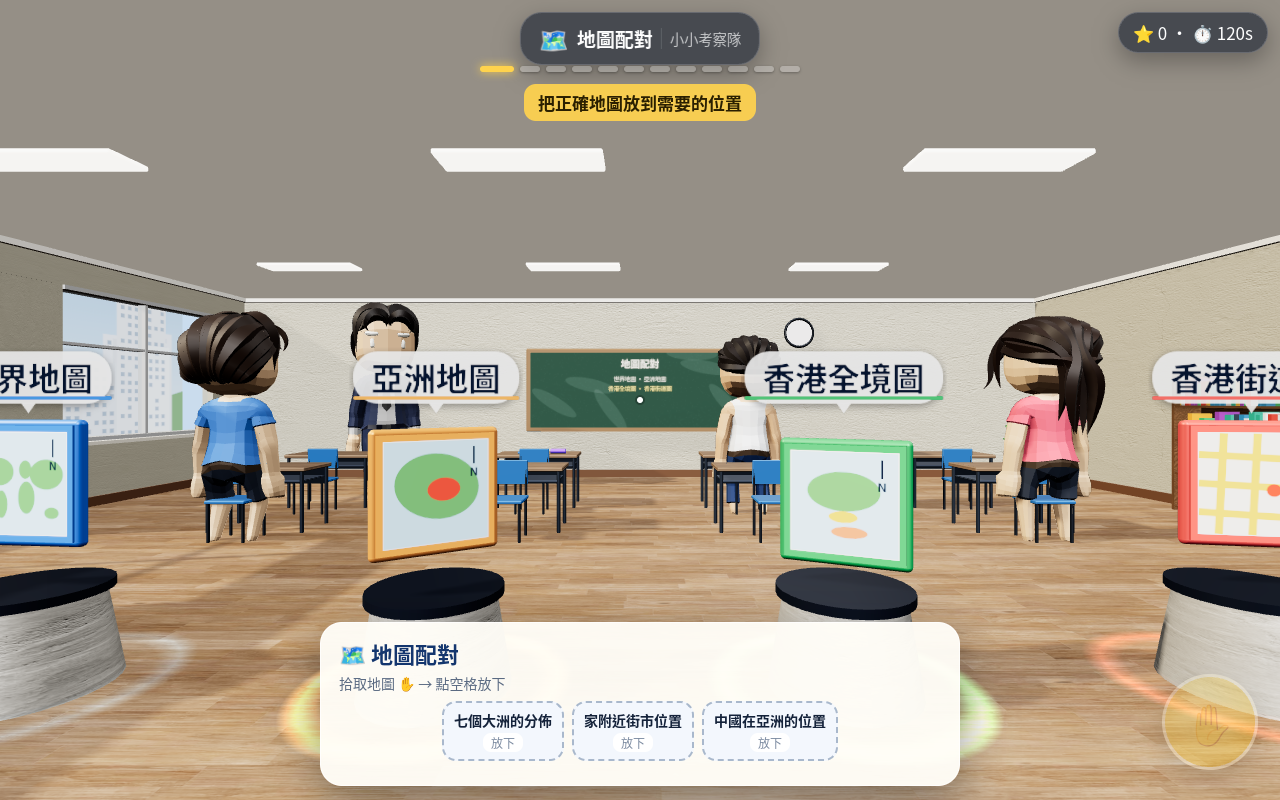
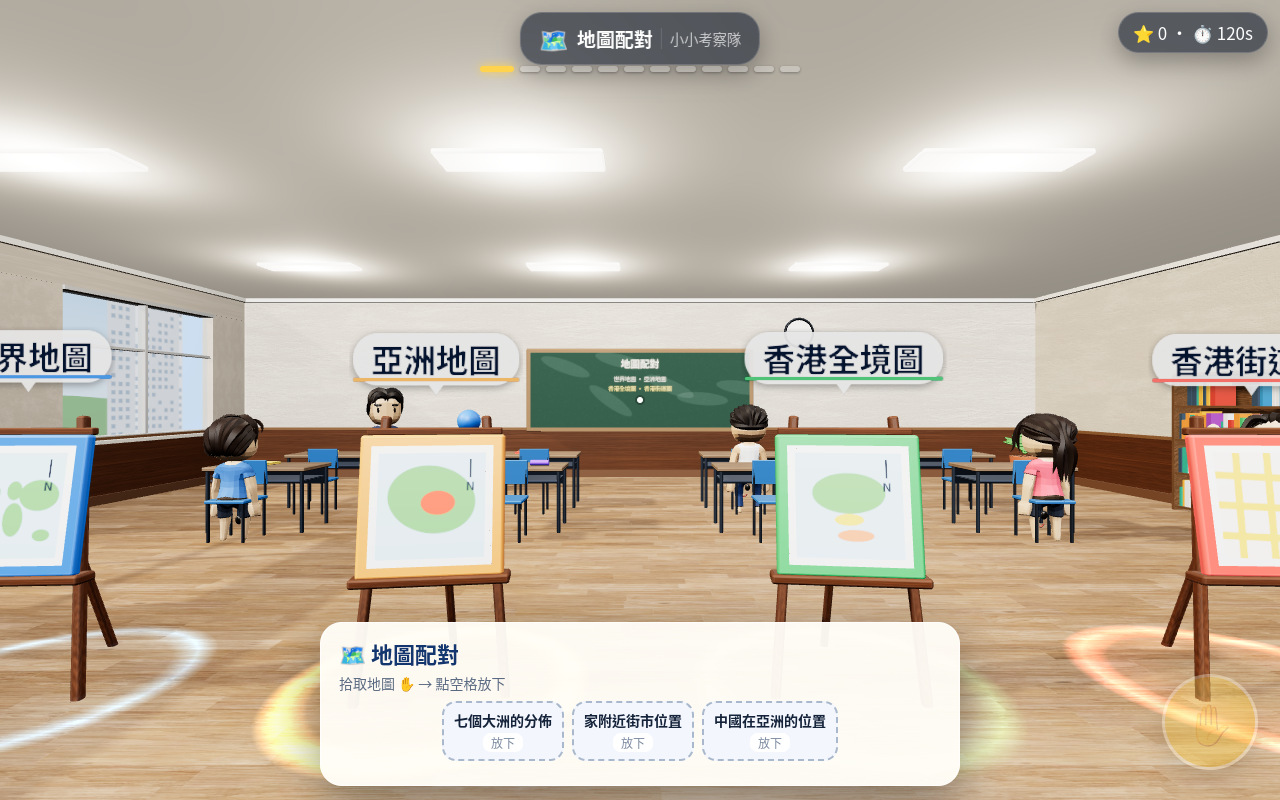
v2b: real Quaternius faces/scale, furnished classroom, dense instanced foliage, easel props, stronger lighting

diff --git a/js/art.js b/js/art.js
@@ -71,7 +71,7 @@ export function setupLights(sunLight, hemiLight) {
 }
 const roomEnv = () => (setupLights._room ||= pm.fromScene(new RoomEnvironment(), 0.04).texture);
 
-export function outdoor({ elev = 35, azim = 140, turb = 2.5, rayleigh = 1.2, fog = 0xb9d4ea, near = 40, far = 160, sunI = 2.6, hemiI = 0.55, sunC = 0xfff1dc, expo = 0.62, mie = 0.003 } = {}) {
+export function outdoor({ elev = 35, azim = 140, turb = 2.5, rayleigh = 1.2, fog = 0xb9d4ea, near = 40, far = 160, sunI = 3.1, hemiI = 0.38, sunC = 0xfff1dc, expo = 0.62, mie = 0.003 } = {}) {
   const u = sky.material.uniforms;
   u.turbidity.value = turb; u.rayleigh.value = rayleigh; u.mieCoefficient.value = mie; u.mieDirectionalG.value = 0.85;
   const phi = THREE.MathUtils.degToRad(90 - elev), th = THREE.MathUtils.degToRad(azim);
@@ -80,7 +80,7 @@ export function outdoor({ elev = 35, azim = 140, turb = 2.5, rayleigh = 1.2, fog
   S.add(sky);
   const es = new THREE.Scene(); const sk2 = sky.clone(); es.add(sk2);
   envRT?.dispose(); envRT = pm.fromScene(es, 0, 0.1, 5000);
-  S.environment = envRT.texture; S.environmentIntensity = 0.7;
+  S.environment = envRT.texture; S.environmentIntensity = 0.55;
   S.background = null;
   S.fog = new THREE.Fog(fog, near, far);
   sun.position.copy(v).multiplyScalar(40); sun.userData.off = sun.position.clone();
@@ -136,27 +136,28 @@ export function glowRing(r = 0.6, color = 0x6fd3ff) {
 }
 // face drawer: (g,w,h) draws illustration; or emoji
 export function token({ x, z, icon = '❓', name, color = '#2f80ed', face, y = 0 }) {
-  const g = new THREE.Group(); g.position.set(x, y, z);
-  // pedestal
-  const ped = new THREE.Mesh(new THREE.CylinderGeometry(0.32, 0.4, 0.5, 28), pbr('concrete034', 0.5, { color: 0xe8e4dc }));
-  ped.position.y = 0.25; g.add(ped);
-  const cap = new THREE.Mesh(new THREE.CylinderGeometry(0.36, 0.36, 0.05, 28), std(0x2a3448, 0.35, 0.7)); cap.position.y = 0.52; g.add(cap);
-  const ring = glowRing(0.75, new THREE.Color(color)); g.add(ring);
+  const g = new THREE.Group(); g.position.set(x, y, z); g.rotation.y = (Math.random() - 0.5) * 0.3;
+  const wood = pbr('wood049', 0.4, { color: 0xc08a5a });
+  // easel: two front legs + back leg + tray
+  for (const sx of [-0.32, 0.32]) { const l = mesh(rbox(0.05, 1.5, 0.05, 0.015), wood, sx, 0.72, 0.06, g); l.rotation.x = -0.12; l.rotation.z = sx > 0 ? 0.08 : -0.08; }
+  const bl = mesh(rbox(0.045, 1.45, 0.045, 0.015), wood, 0, 0.66, -0.3, g); bl.rotation.x = 0.36;
+  mesh(rbox(0.8, 0.05, 0.12, 0.015), wood, 0, 0.62, 0.12, g);
+  mesh(rbox(0.7, 0.04, 0.04, 0.01), wood, 0, 1.38, 0.0, g);
+  const ring = glowRing(0.85, new THREE.Color(color)); g.add(ring);
   const ft = canvasTex(256, 256, (c, w, h) => {
-    const gr = c.createLinearGradient(0, 0, 0, h); gr.addColorStop(0, '#ffffff'); gr.addColorStop(1, '#e8eef8');
+    const gr = c.createLinearGradient(0, 0, 0, h); gr.addColorStop(0, '#ffffff'); gr.addColorStop(1, '#eef2f8');
     c.fillStyle = gr; c.fillRect(0, 0, w, h);
-    c.strokeStyle = color; c.lineWidth = 14; c.strokeRect(7, 7, w - 14, h - 14);
     if (face) face(c, w, h); else { c.font = `150px ${FONT}`; c.textAlign = 'center'; c.textBaseline = 'middle'; c.fillText(icon, w / 2, h / 2 + 10); }
   });
-  const faceMat = new THREE.MeshStandardMaterial({ map: ft, roughness: 0.35, emissive: 0xffffff, emissiveMap: ft, emissiveIntensity: 0.25 });
-  const edge = std(new THREE.Color(color), 0.3, 0.2);
-  const tile = new THREE.Mesh(new THREE.BoxGeometry(0.62, 0.62, 0.08), [edge, edge, edge, edge, faceMat, faceMat]);
-  const bez = new THREE.Mesh(rbox(0.68, 0.68, 0.06, 0.03), edge); tile.add(bez);
-  tile.position.y = 1.05; g.add(tile);
-  const lb = label(name, { accent: color, scale: 0.8 }); lb.position.y = 1.45; g.add(lb);
-  sh(g); ring.castShadow = false; lb.castShadow = false;
+  const faceMat = new THREE.MeshStandardMaterial({ map: ft, roughness: 0.55, emissive: 0xffffff, emissiveMap: ft, emissiveIntensity: 0.12 });
+  const frameM = std(new THREE.Color(color), 0.4, 0.1);
+  const card = new THREE.Group(); card.position.set(0, 1.0, 0.1); card.rotation.x = -0.14; g.add(card);
+  mesh(rbox(0.74, 0.74, 0.05, 0.02), frameM, 0, 0, -0.01, card);
+  const p = new THREE.Mesh(new THREE.PlaneGeometry(0.62, 0.62), faceMat); p.position.z = 0.017; card.add(p);
+  const lb = label(name, { accent: color, scale: 0.8 }); lb.position.y = 1.55; g.add(lb);
+  sh(g); ring.castShadow = false; lb.castShadow = false; p.castShadow = false;
   const ph = Math.random() * 6;
-  anim.push((dt, t) => { tile.position.y = 1.05 + Math.sin(t * 2 + ph) * 0.06; tile.rotation.y = Math.sin(t * 0.9 + ph) * 0.6; ring.material.opacity = 0.6 + Math.sin(t * 3 + ph) * 0.3; });
+  anim.push((dt, t) => { ring.material.opacity = 0.5 + Math.sin(t * 3 + ph) * 0.3; lb.position.y = 1.55 + Math.sin(t * 2 + ph) * 0.03; });
   return g;
 }
 // drop pad: glowing circle with sign
@@ -177,7 +178,7 @@ export function ground(name, size, rep, y = 0, o = {}) {
   const m = new THREE.Mesh(new THREE.PlaneGeometry(size, size), pbr(name, rep, o));
   m.rotation.x = -Math.PI / 2; m.position.y = y; m.receiveShadow = true; root.add(m); return m;
 }
-export function room({ skip = '', w = 16, d = 16, h = 3.6, floor = 'woodfloor051', floorRep = 5, wall = 'paintedplaster017', wallColor = 0xf3ead8, windows = 'left', outside = 'city', ceiling = true }) {
+export function room({ wainscot = false, skip = '', w = 16, d = 16, h = 3.6, floor = 'woodfloor051', floorRep = 5, wall = 'paintedplaster017', wallColor = 0xf3ead8, windows = 'left', outside = 'city', ceiling = true }) {
   const f = new THREE.Mesh(new THREE.PlaneGeometry(w, d), pbr(floor, floorRep)); f.rotation.x = -Math.PI / 2; f.receiveShadow = true; root.add(f);
   const wm = pbr(wall, 2, { color: wallColor });
   const skirt = std(0x6b4a33, 0.5);
@@ -220,7 +221,8 @@ export function room({ skip = '', w = 16, d = 16, h = 3.6, floor = 'woodfloor051
       const bd = new THREE.Mesh(new THREE.PlaneGeometry(W.len * 1.6, h * 2.4), new THREE.MeshBasicMaterial({ map: outsideTex, fog: false, toneMapped: true }));
       bd.position.set(0, h * 0.75, -4.5); g.add(bd);
     }
-    // skirting + cornice
+    // skirting + cornice + wainscot
+    if (wainscot) { mesh(new THREE.BoxGeometry(W.len, 0.95, 0.03), pbr('wood049', 2, { color: 0xb88a5e }), 0, 0.475, 0.0, g); mesh(new THREE.BoxGeometry(W.len, 0.05, 0.06), std(0x7a5636, 0.5), 0, 0.97, 0.02, g); }
     mesh(new THREE.BoxGeometry(W.len, 0.14, 0.04), skirt, 0, 0.07, 0.02, g);
     mesh(new THREE.BoxGeometry(W.len, 0.08, 0.08), std(0xfaf7f0, 0.5), 0, h - 0.04, 0.02, g);
   }
@@ -347,20 +349,50 @@ export function plant(x, z, s = 1, parent) {
   }
   return g;
 }
+const leafTex = () => (leafTex._t ||= (() => { const t = canvasTex(256, 256, (g, w, h) => {
+  g.clearRect(0, 0, w, h);
+  for (let i = 0; i < 26; i++) {
+    const x = 30 + Math.random() * 196, y = 30 + Math.random() * 196, a = Math.random() * 6.28, L = 26 + Math.random() * 20;
+    const l = 55 + Math.random() * 30;
+    g.fillStyle = `hsl(0,0%,${l}%)`; g.save(); g.translate(x, y); g.rotate(a);
+    g.beginPath(); g.moveTo(0, 0); g.quadraticCurveTo(L * 0.5, -L * 0.35, L, 0); g.quadraticCurveTo(L * 0.5, L * 0.35, 0, 0); g.fill();
+    g.strokeStyle = 'rgba(0,0,0,.25)'; g.lineWidth = 1.5; g.beginPath(); g.moveTo(0, 0); g.lineTo(L, 0); g.stroke(); g.restore();
+  }
+}); t.colorSpace = THREE.SRGBColorSpace; return t; })());
 export function tree(x, z, s = 1, { leaf = 0x4f8f3f, trunk = 0x6b4a33, bare = false, snow = false } = {}) {
   const g = new THREE.Group(); g.position.set(x, 0, z); g.scale.setScalar(s); g.rotation.y = Math.random() * 6; root.add(g);
   const tm = pbr('wood049', 0.3, { color: trunk });
-  mesh(new THREE.CylinderGeometry(0.1, 0.17, 1.8, 10), tm, 0, 0.9, 0, g);
-  for (let i = 0; i < 3; i++) { const b = mesh(new THREE.CylinderGeometry(0.03, 0.06, 0.9, 6), tm, 0, 1.5 + i * 0.2, 0, g); b.rotation.set(0.7, i * 2.1, 0); b.position.x = Math.cos(i * 2.1) * 0.2; b.position.z = -Math.sin(i * 2.1) * 0.2; }
+  const trunkGeo = new THREE.CylinderGeometry(0.09, 0.18, 2.0, 10, 4); const tp = trunkGeo.attributes.position;
+  for (let i = 0; i < tp.count; i++) { const yy = tp.getY(i); tp.setX(i, tp.getX(i) + Math.sin(yy * 2) * 0.04); }
+  trunkGeo.computeVertexNormals(); mesh(trunkGeo, tm, 0, 1.0, 0, g);
+  const tips = [];
+  for (let i = 0; i < 5; i++) {
+    const a = i * 1.3 + Math.random() * 0.5, len = 0.9 + Math.random() * 0.5, y0 = 1.4 + i * 0.18;
+    const b = mesh(new THREE.CylinderGeometry(0.025, 0.06, len, 6), tm, 0, 0, 0, g);
+    const dir = new THREE.Vector3(Math.cos(a), 1.1, Math.sin(a)).normalize();
+    b.quaternion.setFromUnitVectors(new THREE.Vector3(0, 1, 0), dir);
+    b.position.set(dir.x * len / 2, y0 + dir.y * len / 2, dir.z * len / 2);
+    tips.push(new THREE.Vector3(dir.x * len, y0 + dir.y * len, dir.z * len));
+  }
   if (!bare) {
-    const lm = std(leaf, 0.75, 0, { flatShading: false });
-    for (let i = 0; i < 9; i++) {
-      const r = 0.45 + Math.random() * 0.35; const geo = new THREE.IcosahedronGeometry(r, 2);
-      const p = geo.attributes.position; for (let k = 0; k < p.count; k++) { const f = 1 + (Math.random() - 0.5) * 0.18; p.setXYZ(k, p.getX(k) * f, p.getY(k) * f, p.getZ(k) * f); } geo.computeVertexNormals();
-      const c = new THREE.Color(leaf).offsetHSL((Math.random() - 0.5) * 0.04, 0, (Math.random() - 0.5) * 0.12);
-      mesh(geo, std(c, 0.8), (Math.random() - 0.5) * 1.1, 2.1 + Math.random() * 0.8, (Math.random() - 0.5) * 1.1, g);
+    const N = Math.round(480 * Q.density);
+    const lm = new THREE.MeshStandardMaterial({ color: leaf, map: leafTex(), alphaTest: 0.5, side: THREE.DoubleSide, roughness: 0.8 });
+    const im = new THREE.InstancedMesh(new THREE.PlaneGeometry(0.6, 0.6), lm, N);
+    const d = new THREE.Object3D(), col = new THREE.Color();
+    for (let i = 0; i < N; i++) {
+      const c = i < N * 0.35 ? new THREE.Vector3(0, 2.6, 0) : tips[i % tips.length];
+      const v = new THREE.Vector3().randomDirection().multiplyScalar(Math.cbrt(Math.random()) * (i < N * 0.35 ? 1.05 : 0.7));
+      v.y *= 0.75;
+      d.position.copy(c).add(v);
+      d.lookAt(d.position.clone().add(v)); d.rotateZ(Math.random() * 6.28);
+      d.scale.setScalar(0.7 + Math.random() * 0.6); d.updateMatrix(); im.setMatrixAt(i, d.matrix);
+      const shade = 0.65 + 0.35 * Math.min(1, (d.position.y - 1.6) / 1.8) + (Math.random() - 0.5) * 0.15;
+      im.setColorAt(i, col.setRGB(shade, shade, shade));
     }
-    if (snow) for (let i = 0; i < 4; i++) mesh(new THREE.SphereGeometry(0.4, 12, 8), std(0xffffff, 0.9), (Math.random() - 0.5) * 0.8, 2.9 + Math.random() * 0.3, (Math.random() - 0.5) * 0.8, g).scale.y = 0.35;
+    im.castShadow = true; im.receiveShadow = true;
+    im.customDepthMaterial = new THREE.MeshDepthMaterial({ depthPacking: THREE.RGBADepthPacking, map: leafTex(), alphaTest: 0.5 });
+    g.add(im);
+    if (snow) for (let i = 0; i < 4; i++) mesh(new THREE.SphereGeometry(0.4, 12, 8), std(0xffffff, 0.9), (Math.random() - 0.5) * 0.8, 3.0 + Math.random() * 0.3, (Math.random() - 0.5) * 0.8, g).scale.y = 0.35;
   }
   colliders.push({ x, z, r: 0.35 * s });
   return g;

diff --git a/js/game.js b/js/game.js
@@ -80,20 +80,50 @@ function loadModels() {
         if (!o.isMesh) return;
         o.castShadow = true; o.receiveShadow = true;
         const ms = Array.isArray(o.material) ? o.material : [o.material];
-        ms.forEach((m) => { if (!m) return; m.envMapIntensity = 0.8; if (pal && pal[m.name] !== undefined) { m.color.set(pal[m.name]); m.roughness = m.name === 'Hair' ? 0.55 : 0.75; } });
+        ms.forEach((m) => { if (!m) return; m.envMapIntensity = 0.8; if (m.name === 'Face') { m.color.set(0x1b1410); m.roughness = 0.25; }
+        if (pal && pal[m.name] !== undefined) { m.color.set(pal[m.name]); m.roughness = m.name === 'Hair' ? 0.55 : 0.75; } });
       });
+      if (PALETTE[k]) addEyes(g.scene);
+      if (PALETTE[k] || ['boy','girl','elder','worker','teacher','girl2','boy2'].includes(k)) { const bb = new THREE.Box3().setFromObject(g.scene); g.unit = 1.72 / (bb.max.y - bb.min.y); console.info('model h', k, (bb.max.y - bb.min.y).toFixed(2)); }
       MODELS[k] = g;
     } catch (e) { console.warn('model', k, e); }
   })));
 }
 const mixers = [];
+function addEyes(scene) {
+  scene.updateMatrixWorld(true);
+  let brow = null, head = null;
+  scene.traverse((o) => { if (o.isMesh && o.material?.name === 'Face') brow = o; if (o.isBone && /head/i.test(o.name) && !head) head = o; });
+  if (!brow || !head) return;
+  const bb = new THREE.Box3(); const v = new THREE.Vector3();
+  const n = brow.geometry.attributes.position.count;
+  for (let i = 0; i < n; i++) { if (brow.isSkinnedMesh) brow.getVertexPosition(i, v); else v.fromBufferAttribute(brow.geometry.attributes.position, i); v.applyMatrix4(brow.matrixWorld); bb.expandByPoint(v); }
+  const H = new THREE.Box3().setFromObject(scene).getSize(new THREE.Vector3()).y;
+  const w = bb.max.x - bb.min.x, cx = (bb.max.x + bb.min.x) / 2;
+  const r = H * 0.024;
+  const eyeM = new THREE.MeshStandardMaterial({ color: 0x15110e, roughness: 0.15 });
+  const hiM = new THREE.MeshBasicMaterial({ color: 0xffffff });
+  const cheekM = new THREE.MeshBasicMaterial({ color: 0xff8f8f, transparent: true, opacity: 0.45, depthWrite: false });
+  const mouthM = new THREE.MeshStandardMaterial({ color: 0x8a3b30, roughness: 0.5 });
+  const add = (mesh, x, y, z) => { const p = new THREE.Vector3(x, y, z); head.worldToLocal(p); mesh.position.copy(p); head.add(mesh); };
+  const z = bb.max.z;
+  for (const s of [-1, 1]) {
+    const ex = cx + s * w * 0.24, ey = bb.min.y - r * 1.3;
+    const e = new THREE.Mesh(new THREE.SphereGeometry(r, 16, 12), eyeM); e.scale.set(0.95, 1.25, 0.55); add(e, ex, ey, z - r * 0.1);
+    const h = new THREE.Mesh(new THREE.SphereGeometry(r * 0.32, 8, 6), hiM); add(h, ex + r * 0.25, ey + r * 0.4, z + r * 0.15);
+    const c = new THREE.Mesh(new THREE.CircleGeometry(r * 0.9, 16), cheekM); add(c, cx + s * w * 0.4, ey - r * 1.8, z + r * 0.05);
+  }
+  const m = new THREE.Mesh(new THREE.TorusGeometry(r * 0.9, r * 0.22, 6, 12, Math.PI), mouthM); m.rotation.z = Math.PI; add(m, cx, bb.min.y - r * 3.6, z + r * 0.05);
+}
 function spawnPerson(kind, x, z, scale = 1, rotY = 0, clip = 'Idle') {
   const src = MODELS[kind];
   if (!src) { const g = new THREE.Group(); g.position.set(x, 0, z); return g; }
-  const root = SkeletonUtils.clone(src.scene);
-  root.position.set(x, 0, z); root.rotation.y = rotY; root.scale.setScalar(scale);
+  const inner = SkeletonUtils.clone(src.scene);
+  inner.scale.setScalar(scale * (src.unit || 1));
+  const root = new THREE.Group(); root.add(inner);
+  root.position.set(x, 0, z); root.rotation.y = rotY;
   if (src.animations?.length) {
-    const mx = new THREE.AnimationMixer(root);
+    const mx = new THREE.AnimationMixer(inner);
     const c = src.animations.find((a) => a.name === clip) || src.animations[0];
     const act = mx.clipAction(c); act.play(); act.time = Math.random() * c.duration;
     mixers.push(mx); root.userData.mixer = mx; root.userData.clips = src.animations;
@@ -386,7 +416,8 @@ function addTok(opts, data) {
 }
 function classroom({ w = 16, d = 14, title = '小小考察隊', lines = [], desks = true } = {}) {
   A.indoor({ bg: 0xcfe2f5, expo: 1.15, sunI: 2.6, sunDir: [-14, 9, 3], envI: 0.6 });
-  A.room({ w, d, h: 3.6, floor: 'woodfloor051', floorRep: 4, wall: 'paintedplaster017', wallColor: 0xf4ecdc, windows: 'left' });
+  A.room({ w, d, h: 3.6, floor: 'woodfloor051', floorRep: 4, wall: 'plaster001', wallColor: 0xf6efe2, windows: 'left', wainscot: true });
+  for (let x = -w / 2 + 3; x < w / 2 - 1; x += 4) for (let z = -d / 2 + 3; z < d / 2 - 1; z += 4) { const pl = new THREE.PointLight(0xfff1dc, 5, 7, 1.8); pl.position.set(x, 3.3, z); worldRoot.add(pl); }
   A.board(0, 1.75, -d / 2 + 0.06, 4.4, 1.5, (g, W, H) => A.chalkboard(g, W, H, title, lines));
   // teacher desk + teacher
   const td = A.desk(-3.4, -d / 2 + 1.6, 0, false); td.scale.set(1.3, 1, 1.2);
@@ -412,6 +443,16 @@ function classroom({ w = 16, d = 14, title = '小小考察隊', lines = [], desk
       if ((r + c) % 3 === 0) { const p = spawnPerson(kids[k++ % 4], x + 0.0, z + 0.62, 0.78, Math.PI, 'Idle'); worldRoot.add(p); }
     }
   }
+  // standing classmates chatting near the windows / back
+  if (desks) {
+    const a1 = spawnPerson('girl', -6.2, 1.2, 0.8, 0.9); worldRoot.add(a1); colliders.push({ x: -6.2, z: 1.2, r: 0.4 });
+    const a2 = spawnPerson('boy2', -5.3, 2.0, 0.82, -2.4); worldRoot.add(a2); colliders.push({ x: -5.3, z: 2.0, r: 0.4 });
+    const a3 = spawnPerson('girl2', 5.6, -0.2, 0.8, -1.2, 'Victory'); worldRoot.add(a3); colliders.push({ x: 5.6, z: -0.2, r: 0.4 });
+    walker('boy', [[6.5, 4.5], [6.5, -4.5]], 0.8);
+  }
+  // window-wall extras: radiator, globe on teacher desk, notice board
+  A.board(-1.2, 1.9, d / 2 - 0.08, 2.0, 1.1, (g2, W, H) => { g2.fillStyle = '#b5835a'; g2.fillRect(0, 0, W, H); for (let i = 0; i < 9; i++) { g2.fillStyle = ['#fff6b0', '#ffd1dc', '#c9f0ff', '#d9ffd1'][i % 4]; const px = 40 + (i % 3) * 320 + Math.random() * 30, py = 30 + ((i / 3) | 0) * 180 + Math.random() * 20; g2.save(); g2.translate(px, py); g2.rotate((Math.random() - 0.5) * 0.2); g2.fillRect(0, 0, 250, 150); g2.fillStyle = '#e74c3c'; g2.beginPath(); g2.arc(125, 10, 8, 0, 7); g2.fill(); g2.fillStyle = '#555'; for (let k = 0; k < 4; k++) g2.fillRect(20, 40 + k * 25, 120 + Math.random() * 90, 8); g2.restore(); } }, Math.PI);
+  const gl = A.mesh(new THREE.SphereGeometry(0.2, 24, 16), A.std(0x2f80ed, 0.4), -3.0, 1.18, -d / 2 + 1.6);
   setBounds(Math.min(w, d) / 2 - 0.6);
 }
 function posterHK(g, w, h) {
@@ -813,7 +854,7 @@ function buildM7() {
   const items = [
     { id: 'A', name: '抽濕機', icon: '💧', color: '#56ccf2' },
     { id: 'B', name: '手提風扇', icon: '🌀', color: '#f2994a' },
-    { id: 'C', name: '暖水袋', icon: '♨', color: '#eb5757' },
+    { id: 'C', name: '暖水袋', icon: '🔥', color: '#eb5757' },
     { id: 'D', name: '護手霜', icon: '🧴', color: '#bb6bd9' },
   ];
   items.forEach((it, i) => addTok({ x: -4.5 + i * 3, z: 3.2, icon: it.icon, name: it.name, color: it.color }, { type: 'pickup', id: it.id, label: it.name }));
@@ -948,7 +989,7 @@ function buildM9() {
     { id: 'drink', name: '熱飲', icon: '☕', color: '#eb5757' },
     { id: 'visit', name: '問候卡', icon: '💌', color: '#f2c94c' },
   ];
-  gifts.forEach((g, i) => addTok({ x: -3 + i * 3, z: 3, icon: g.icon, name: g.name, color: g.color }, { type: 'pickup', id: g.id, label: g.name }));
+  gifts.forEach((g, i) => addTok({ x: [-4, 4, -4][i], z: [2, 2, -0.6][i], icon: g.icon, name: g.name, color: g.color }, { type: 'pickup', id: g.id, label: g.name }));
   let given = 0;
   elder.userData.interact.onUse = () => {
     if (!held) return failNudge('先拿送暖物品');

diff --git a/css/style.css b/css/style.css
@@ -43,7 +43,7 @@ body.playing #hud{opacity:1}
   background:rgba(255,255,255,.94);color:#14223a;border-radius:16px;padding:7px 14px;font-size:16px;box-shadow:0 6px 18px rgba(0,0,0,.3)}
 #held.show{display:flex}#held span{font-size:12px;background:#2f80ed;color:#fff;padding:2px 8px;border-radius:8px}
 #cross{position:absolute;left:50%;top:50%;width:6px;height:6px;margin:-3px;background:#fff;border-radius:50%;box-shadow:0 0 0 2px rgba(0,0,0,.25)}
-#prompt{position:absolute;left:50%;top:58%;transform:translateX(-50%);background:rgba(255,255,255,.95);color:#14223a;font-weight:700;
+#prompt{position:absolute;left:50%;top:auto;bottom:max(150px,16%);transform:translateX(-50%);background:rgba(255,255,255,.95);color:#14223a;font-weight:700;
   padding:8px 18px;border-radius:20px;font-size:clamp(15px,2.6vw,18px);display:none;white-space:nowrap;box-shadow:0 6px 20px rgba(0,0,0,.35)}
 #act{pointer-events:auto;position:absolute;right:max(22px,env(safe-area-inset-right));bottom:max(30px,env(safe-area-inset-bottom));
   width:96px;height:96px;border-radius:50%;border:3px solid rgba(255,255,255,.85);background:radial-gradient(circle at 35% 30%,#ffe680,#f5b400);color:#3a2a00;font-size:40px;
